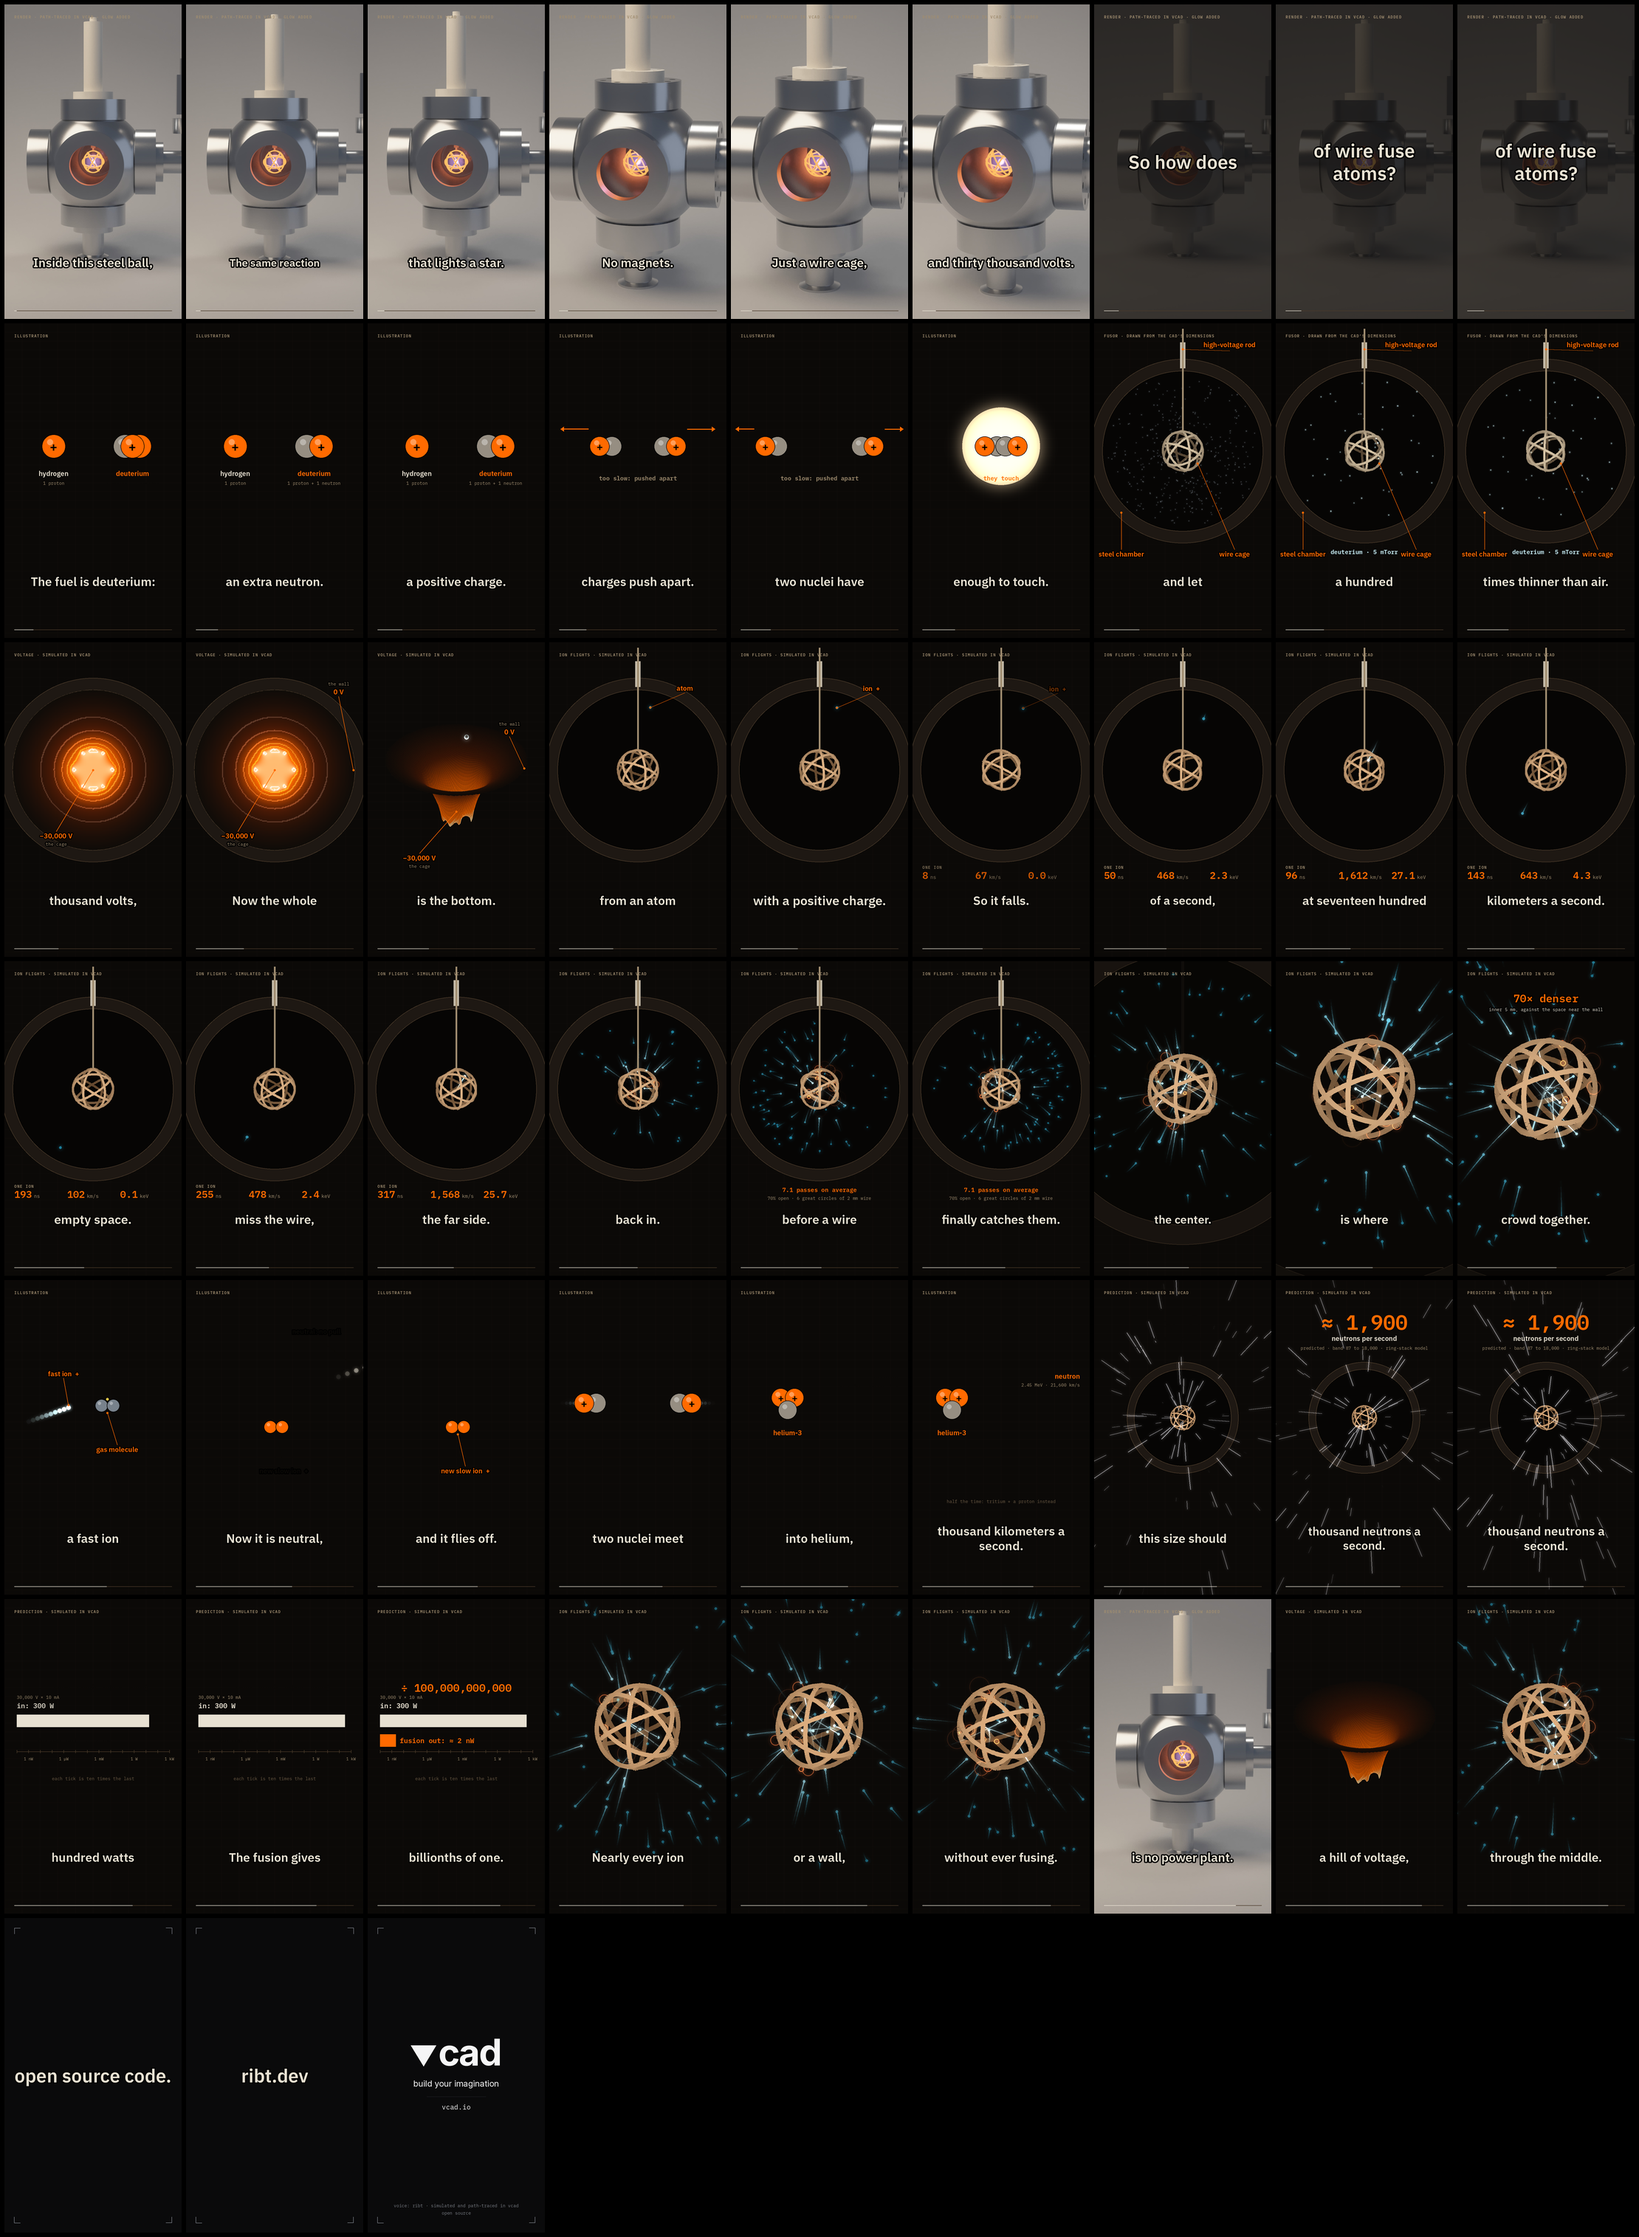
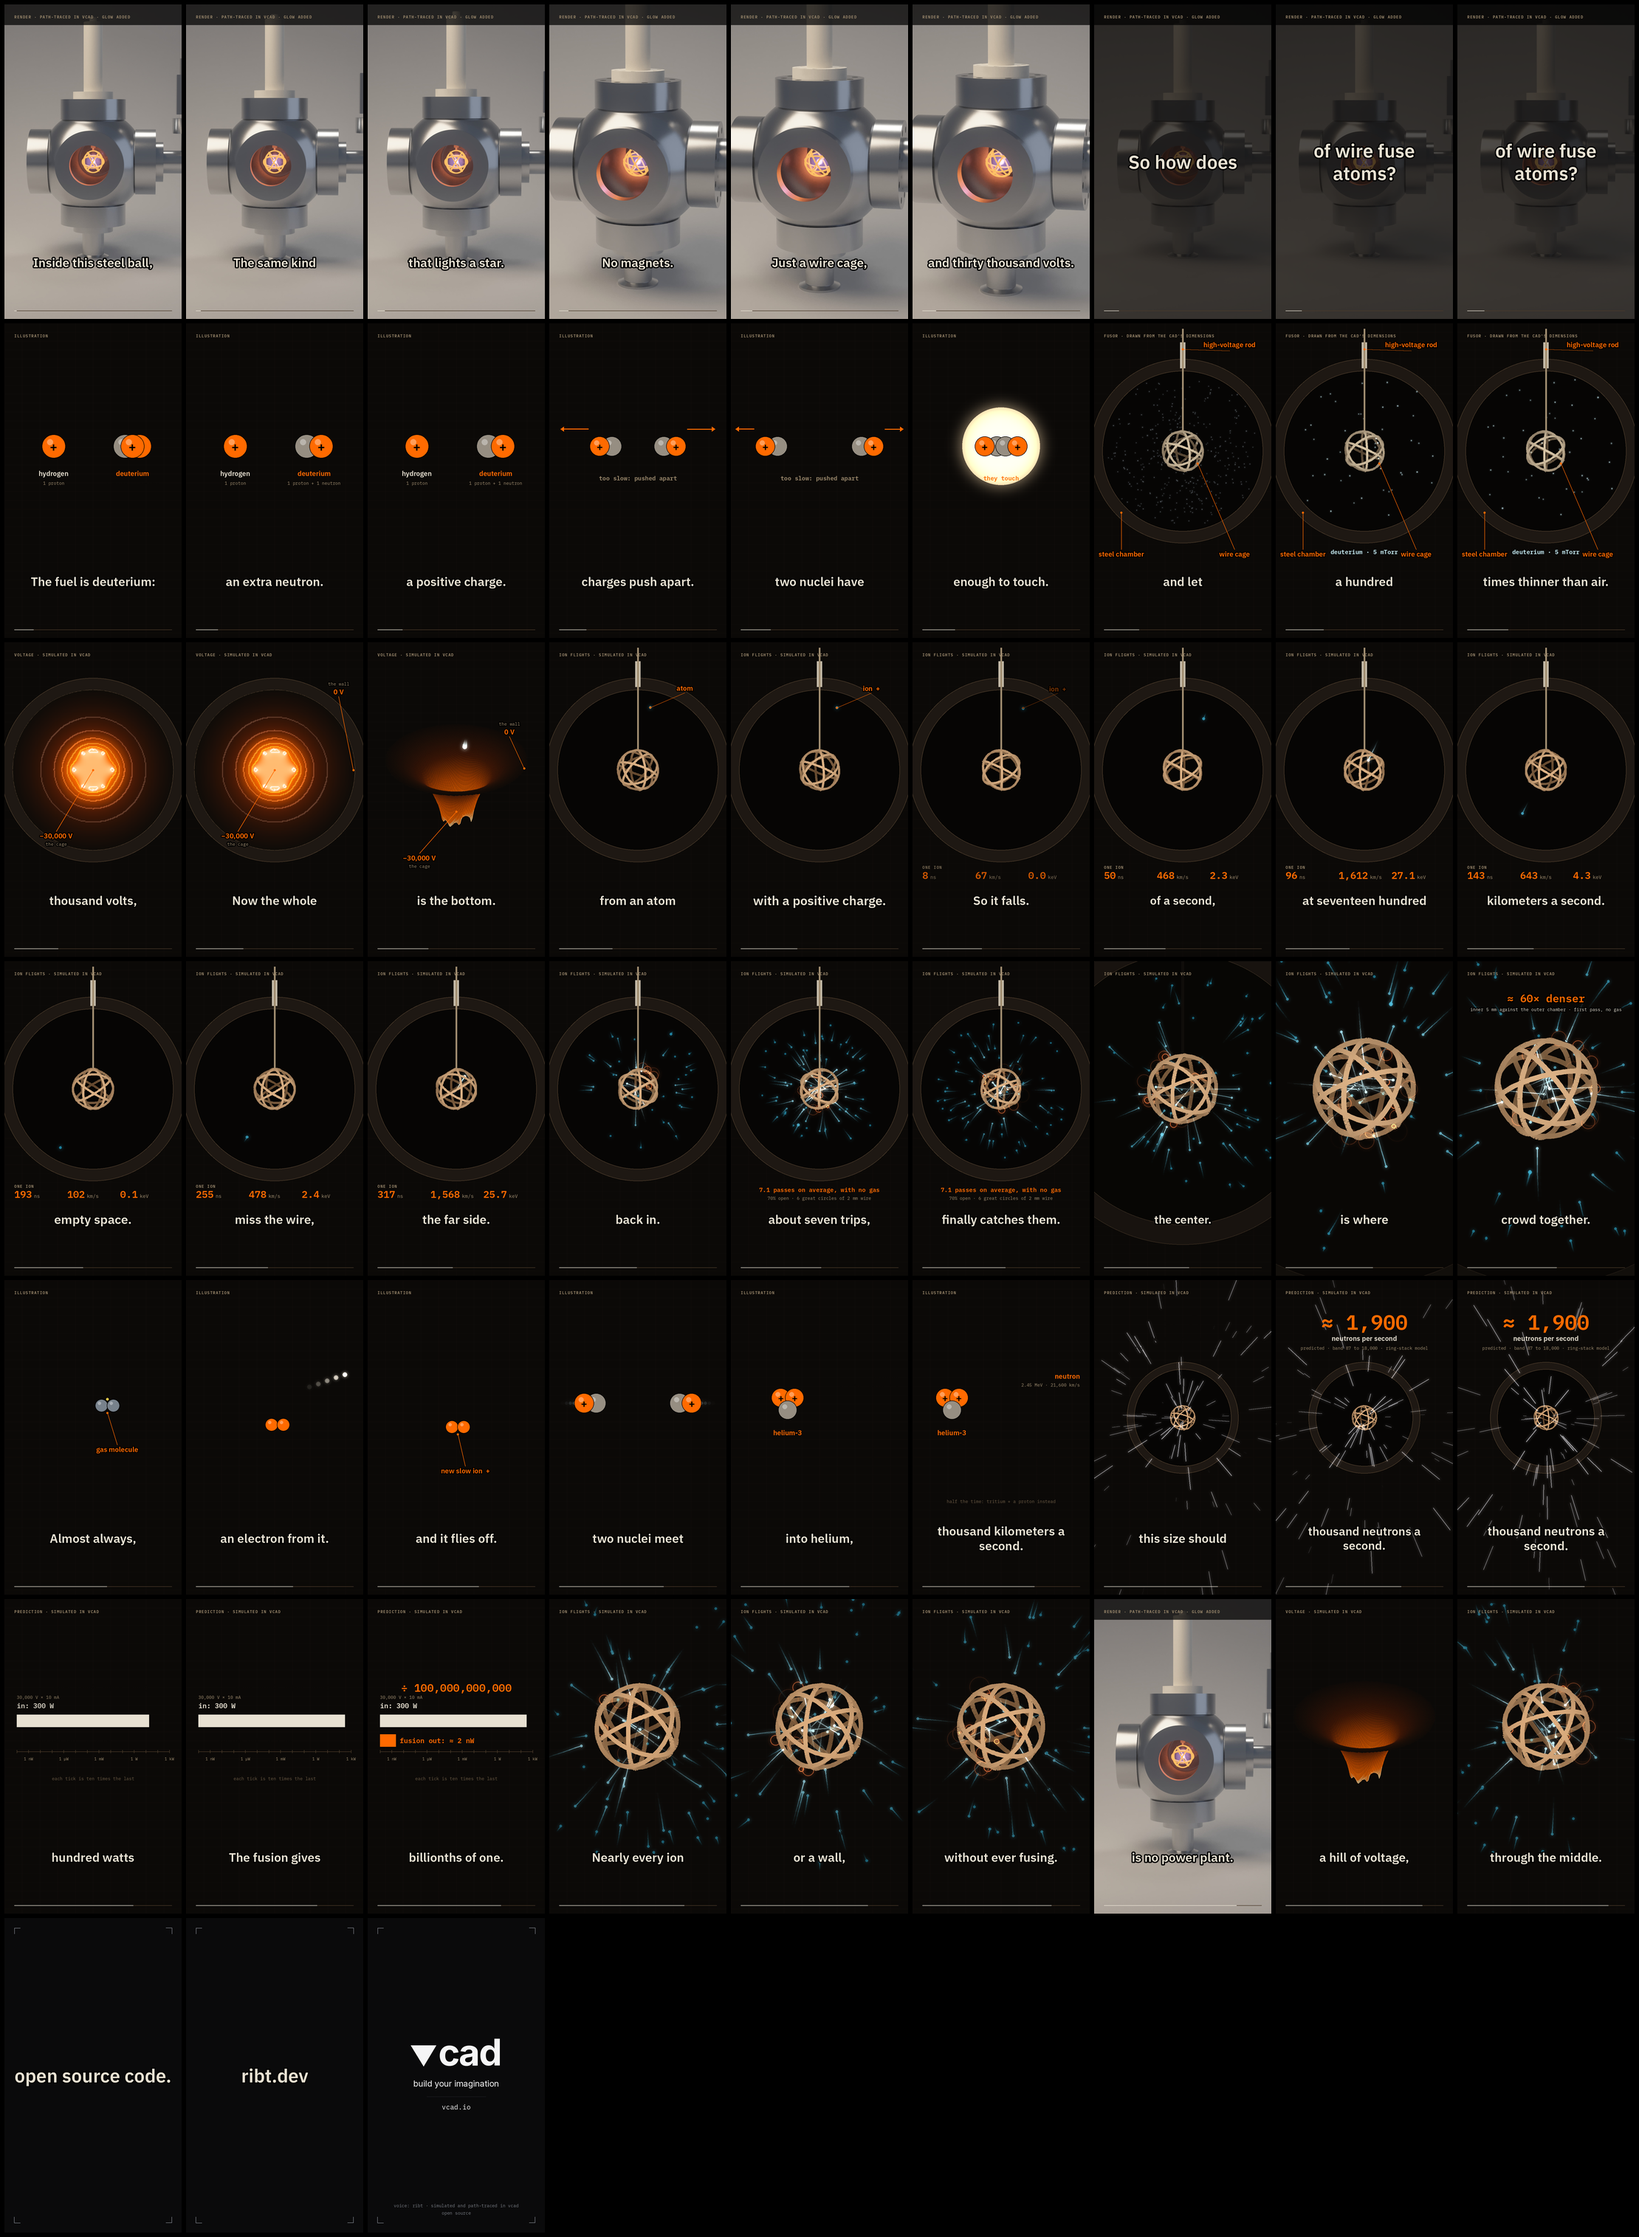
docs(videos): fusor explainer — narration agrees with its sources
Stars are not D-D fusion ("the same kind of reaction"); seven trips holds
only in vacuum, and the gas line now says so; centre density quoted for the
first transit (63x); readable render tag; hill ball rolls in on its cue.

diff --git a/docs/videos/fusor-explainer/scenes.py b/docs/videos/fusor-explainer/scenes.py
@@ -295,7 +295,7 @@ def scene_well(t, cues, assets):
         draw_hill(img, c, pot, g)
         # one ion from the simulation, rolling on the hill (its path projected onto the slice)
         a = D["ions"][D["hero"]]
-        tau = max(0.0, t - cues["bottom"]) * 60.0 % 560.0
+        tau = max(0.0, t - cues["hill"] - 0.8) * 60.0 % 560.0
         lay = glow_layer()
         dl = style.draw(lay)
         for j, back in enumerate(np.linspace(0, 26, 12)):
@@ -305,7 +305,7 @@ def scene_well(t, cues, assets):
             sx, sy, _ = proj([[x, z, h + 2.5]], c)
             rr = 9 - 0.6 * j
             dl.ellipse([sx[0] - rr, sy[0] - rr, sx[0] + rr, sy[0] + rr], fill=dim(HOT, (1 - j / 12) ** 2))
-        if t >= cues["bottom"] - 0.2:
+        if t >= cues["hill"] + 0.8:
             img = add_glow(img, lay, 8.0)
     d = style.draw(img)
     kc = ease(seg(t, cues["minus"], cues["minus"] + 0.3))
@@ -416,12 +416,12 @@ def scene_ions(t, cues, assets):
                    fill=mix(BGC, LABEL, kh), anchor="ls")
     kp = ease(seg(t, cues["seven"], cues["seven"] + 0.3)) * (1 - ease(seg(t, cues["core"], cues["core"] + 0.6)))
     if kp > 0:
-        d.text((W / 2, 930), "7.1 passes on average", font=F(24, True), fill=mix(BGC, SEL, kp), anchor="mm")
+        d.text((W / 2, 930), "7.1 passes on average, with no gas", font=F(24, True), fill=mix(BGC, SEL, kp), anchor="mm")
         d.text((W / 2, 964), "70% open · 6 great circles of 2 mm wire", font=F(18), fill=mix(BGC, LABEL, kp), anchor="mm")
     kd = ease(seg(t, cues["crowd"], cues["crowd"] + 0.3))
     if kd > 0:
-        d.text((W / 2, 150), "70× denser", font=F(44, True), fill=mix(BGC, SEL, kd), anchor="mm", stroke_width=5, stroke_fill=(0, 0, 0))
-        d.text((W / 2, 196), "inner 5 mm, against the space near the wall", font=F(18), fill=mix(BGC, TEXT, kd), anchor="mm", stroke_width=4, stroke_fill=(0, 0, 0))
+        d.text((W / 2, 150), "≈ 60× denser", font=F(44, True), fill=mix(BGC, SEL, kd), anchor="mm", stroke_width=5, stroke_fill=(0, 0, 0))
+        d.text((W / 2, 196), "inner 5 mm against the outer chamber · first pass, no gas", font=F(18), fill=mix(BGC, TEXT, kd), anchor="mm", stroke_width=4, stroke_fill=(0, 0, 0))
     return img, "ion flights · simulated in vcad"
 
 
@@ -671,6 +671,9 @@ def scene_still(t, cues, assets, name="hero", push=0.06, dimmed=0.0):
     img = im2.crop((x, y, x + w, y + h))
     if dimmed:
         img = Image.blend(img, style.new("RGB", BGC), dimmed)
+    # a dark strip under the tag, so "render · glow added" reads on the light backdrop
+    band = img.crop((0, 0, w, int(84 * style.S)))
+    img.paste(Image.blend(band, Image.new("RGB", band.size, (0, 0, 0)), 0.72), (0, 0))
     return img, "render · path-traced in vcad · glow added"
 
 

diff --git a/docs/videos/fusor-explainer/narration.py b/docs/videos/fusor-explainer/narration.py
@@ -4,7 +4,7 @@ number are in script.md.
 """
 LINES = [
     # the payoff first, then the question
-    ("open1", "Inside this steel ball, atoms are fusing. The same reaction that lights a star."),
+    ("open1", "Inside this steel ball, atoms are fusing. The same kind of reaction that lights a star."),
     ("open2", "No magnets. No lasers. Just a wire cage, and thirty thousand volts."),
     ("ask", "So how does a cage of wire fuse atoms?"),
     # the problem
@@ -20,10 +20,10 @@ LINES = [
     ("speed", "In ninety billionths of a second, it is moving at seventeen hundred kilometers a second."),
     ("miss", "But the cage is seventy percent empty space. So most ions miss the wire, "
              "cross the middle, and climb the far side."),
-    ("back", "Then they fall back in. About seven trips, before a wire finally catches them."),
+    ("back", "Then they fall back in. With nothing in the way, about seven trips, before a wire finally catches them."),
     ("core", "Every trip crosses the center. So that is where the fast ions crowd together."),
     # what happens there
-    ("hit", "Almost always, a fast ion just grabs an electron from the gas. "
+    ("hit", "But the gas is in the way. Almost always, a fast ion just grabs an electron from it. "
             "Now it is neutral, the voltage can't hold it, and it flies off."),
     ("fuse", "But once in a long while, two nuclei meet head on, and fuse: into helium, "
              "and a neutron leaving at twenty thousand kilometers a second."),

diff --git a/docs/videos/fusor-explainer/script.md b/docs/videos/fusor-explainer/script.md
@@ -23,7 +23,7 @@ opening shot. Captions state the physics; no "we".
 
 | shot | lines | source |
 |---|---|---|
-| hero, close | open1, open2, ask, so | `vcad-render --photoreal` of `fusor.loon`. The glow is added geometry ([`../open-fusor/star-mode.loon`](../open-fusor/star-mode.loon)), not simulated. On-screen tag: "render · path-traced in vcad · glow added" |
+| hero, close | open1, open2, ask, start of so | `vcad-render --photoreal` of `fusor.loon`. The glow is added geometry ([`../open-fusor/star-mode.loon`](../open-fusor/star-mode.loon)), not simulated. On-screen tag: "render · path-traced in vcad · glow added" |
 | fuel | fuel, repel | illustration (tagged on screen) |
 | machine | vac | chamber, cage and rod drawn from the CAD's dimensions. The dots are an illustration: the real gas has 1.6×10²⁰ molecules per m³ |
 | well | well | φ on the y = 0 plane from the 3D thin-wire BEM (`potential.csv`), as a map and then as a surface. The rolling ball is the hero ion's traced path, projected onto that plane |
@@ -31,14 +31,14 @@ opening shot. Captions state the physics; no "we".
 | hit, fuse | hit, fuse | illustration (tagged on screen) |
 | count | count | the number is the prediction below; the streaks are drawn |
 | power | power | arithmetic below |
-| why | why | the same 96 flights; each ring marks a traced wire strike |
+| why | why, end of so | the same 96 flights; each ring marks a traced wire strike. `so` opens on the hero shot again, then names the hill, the cage and the ions over their own shots |
 
 Data: `cargo run --release -p vcad-kernel-particle --example
 fusor_explainer_paths -- <dir> 96` at main `f0e85d84`. It solves the six
 great circles (19 mm, 2 mm wire, −30 kV) in a 76 mm grounded sphere and
 prints `96 ions: 84 hit a wire, mean core passes 6.23, phi(center) =
 -28.91 kV`. The flights are vacuum orbits: charge exchange is not applied
-to the trajectory, so an ion flies until a wire or the 40-pass cap stops it.
+to the trajectory, so an ion flies until a wire or the 40-pass cap stops it. The solver's cathode is the six circles alone: it has no stalk, so traced ions pass through the rod the scenes draw.
 
 ## Sources for each spoken number
 
@@ -54,12 +54,15 @@ to the trajectory, so an ion flies until a wire or the 40-pass cap stops it.
   fast at the same energy. The line describes a bare deuteron.
 - **seventy percent empty space**: geometric transparency 0.714 for the six
   great circles (`docs/particle-optics-3d.md`).
-- **about seven trips**: 7.1 mean core passes for the globe, 400 ions, same
-  doc. The 96-ion run here gives 6.2.
-- **the fast ions crowd together** and the on-screen "70× denser": dwell
-  time per unit volume in `paths.csv` (samples are uniform in time) is 70×
-  higher inside r = 5 mm than in the 45–60 mm shell. Vacuum orbits, so it is
-  the geometric convergence alone, without gas collisions or space charge.
+- **with nothing in the way, about seven trips**: 7.1 mean core passes for
+  the globe, 400 ions, same doc, in vacuum. The 96-ion run here gives 6.2.
+  In the 5 mTorr gas an ion rarely gets that far, which is the next line.
+- **the fast ions crowd together** and the on-screen "≈ 60× denser": dwell
+  time per unit volume in `paths.csv` (samples are uniform in time) inside
+  r = 5 mm, against the 45–60 mm shell, is 63× counting only each ion's
+  first transit (t ≤ 200 ns, which is what the gas allows), 70× over whole
+  flights, 54× without the 12 capped survivors. Vacuum orbits: geometric
+  convergence alone, no space charge.
 - **almost always, charge exchange**: at 5 mTorr the charge-exchange mean
   free path is shorter than one pass (`docs/particle-optics-3d.md`).
 - **helium and a neutron at twenty thousand kilometers a second**: D + D →
@@ -93,6 +96,7 @@ grep -v "viewport-front" $D/fusor.loon > open.loon && cat open.loon $D/star-mode
 cargo run --release -p vcad-loon --example loon2vcad -- shot.loon > shot.vcad
 L="--photoreal --look $D/look.json --lighting warm-studio --backdrop cyclorama --exposure 0.75 --bloom 0.06 --tonemap exp --size 1080x1920 --spp 160"
 cargo run --release -p vcad-render -- shot.vcad $L --focus chamber --azimuth 274 --elevation 4 --fill 0.62 --fov 22 -o assets/hero.jpg
+cargo run --release -p vcad-render -- shot.vcad $L --focus chamber --azimuth 282 --elevation 10 --fill 0.9 --fov 22 -o assets/close.jpg
 ```
 
 ```bash
